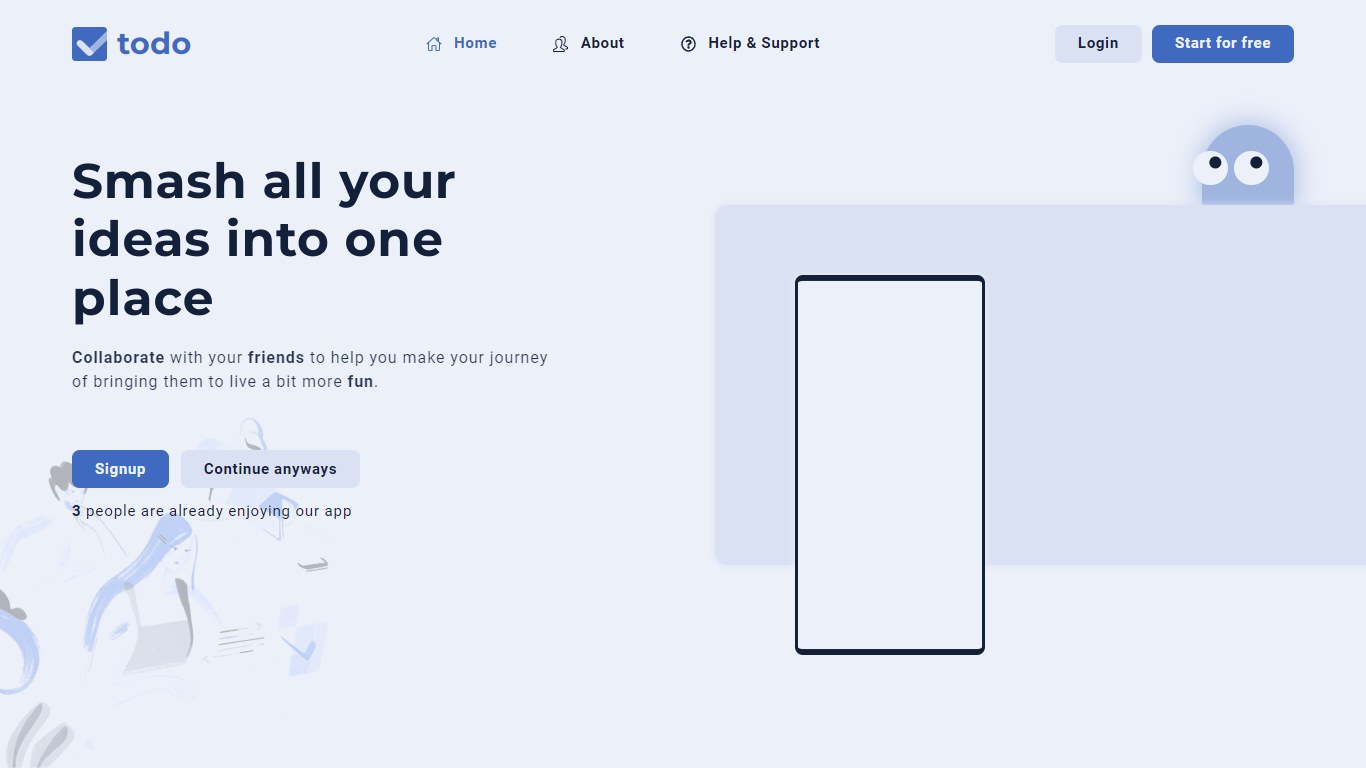
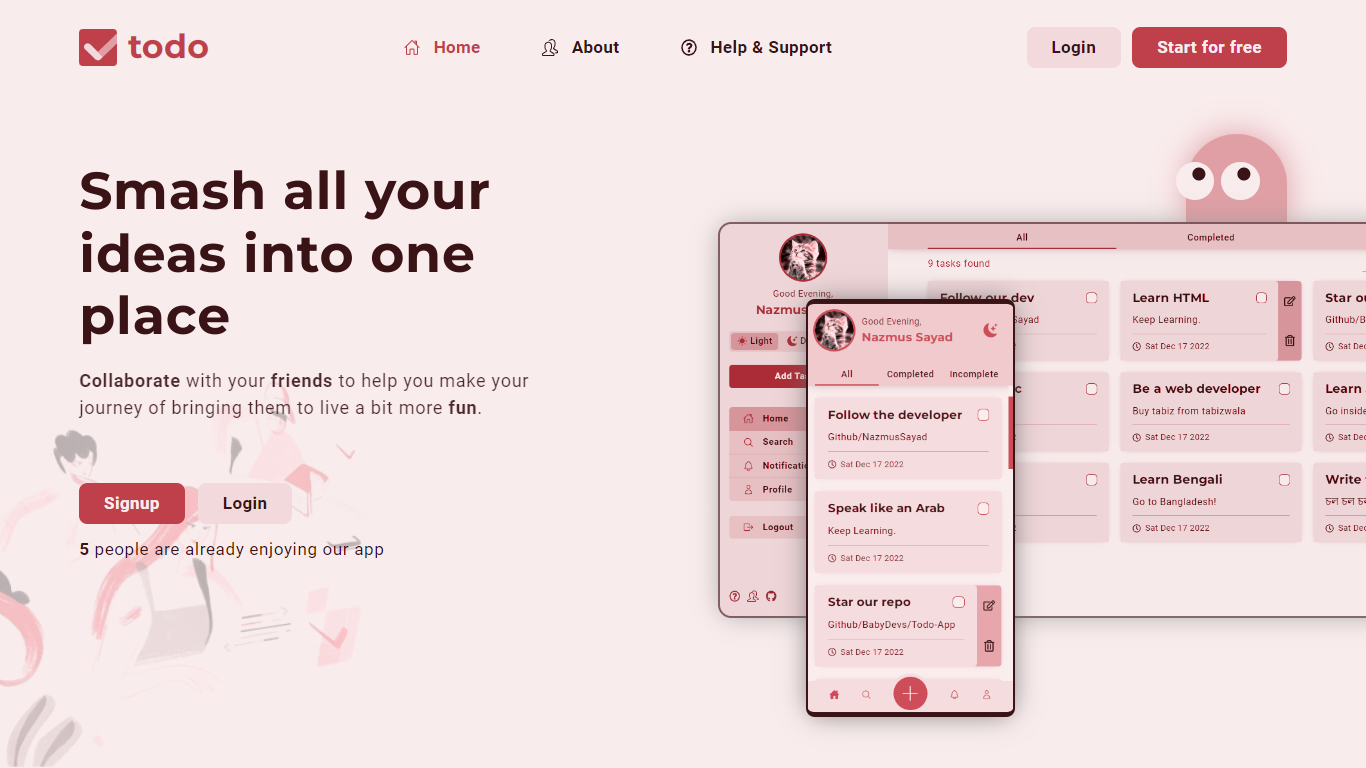
bit update

diff --git a/src/components/LandingPage/Hero.module.scss b/src/components/LandingPage/Hero.module.scss
@@ -1,5 +1,5 @@
 .hero {
-  overflow: hidden; // apatoto
+  overflow: hidden;
   background-image: linear-gradient(90deg, v(background) 0%, v(background) 100%),
     url('$assets/bg-left.png');
   background-repeat: no-repeat;
@@ -85,7 +85,6 @@
   }
 
   .showOffContainer {
-    background: red;
   }
 
   .showOff {
@@ -108,32 +107,47 @@
 
     &__mobile,
     &__desktop {
-      --box-shadow: #000;
-      background-position: center;
+      --box-shadow: #999;
       background-size: cover;
-      background-color: var(--box-shadow);
-      box-shadow: 0 0 0.8rem v(box-shadow);
+      background-repeat: no-repeat;
+      box-shadow: 0 0 2.5rem -0.5rem var(--box-shadow);
+      background-blend-mode: hue;
+      background-image: linear-gradient(90deg, v(accent) 0%, v(accent) 100%),
+        v(bg-image);
     }
 
     &__desktop {
-      --box-shadow: #{v(c100)};
+      --bg-image: url('$assets/screenshot-pc.png');
       position: absolute;
       top: 8rem;
       aspect-ratio: 18 / 9;
       height: 36rem;
       border-radius: 1.2rem;
+      background-position: center left;
+
+      &::after {
+        content: '';
+        border: 0.2rem solid v(foreground);
+        opacity: 0.6;
+        display: block;
+        border-radius: inherit;
+        position: absolute;
+        inset: 0;
+      }
     }
 
     &__mobile {
-      --box-shadow: #{v(background)};
+      --box-shadow: #666;
+      --bg-image: url('$assets/screenshot-mobile.png');
       position: absolute;
       top: 15rem;
       left: 8rem;
       aspect-ratio: 1 / 2;
       height: 38rem;
       border-radius: 0.8rem;
-      border: fluid(0.2rem, 0.4rem) solid v(foreground);
-      border-block-width: 0.6rem;
+      border: 0.2rem solid v(foreground);
+      border-block-width: 0.5rem;
+      background-position: center top;
 
       @include break-down($md) {
         position: relative;
